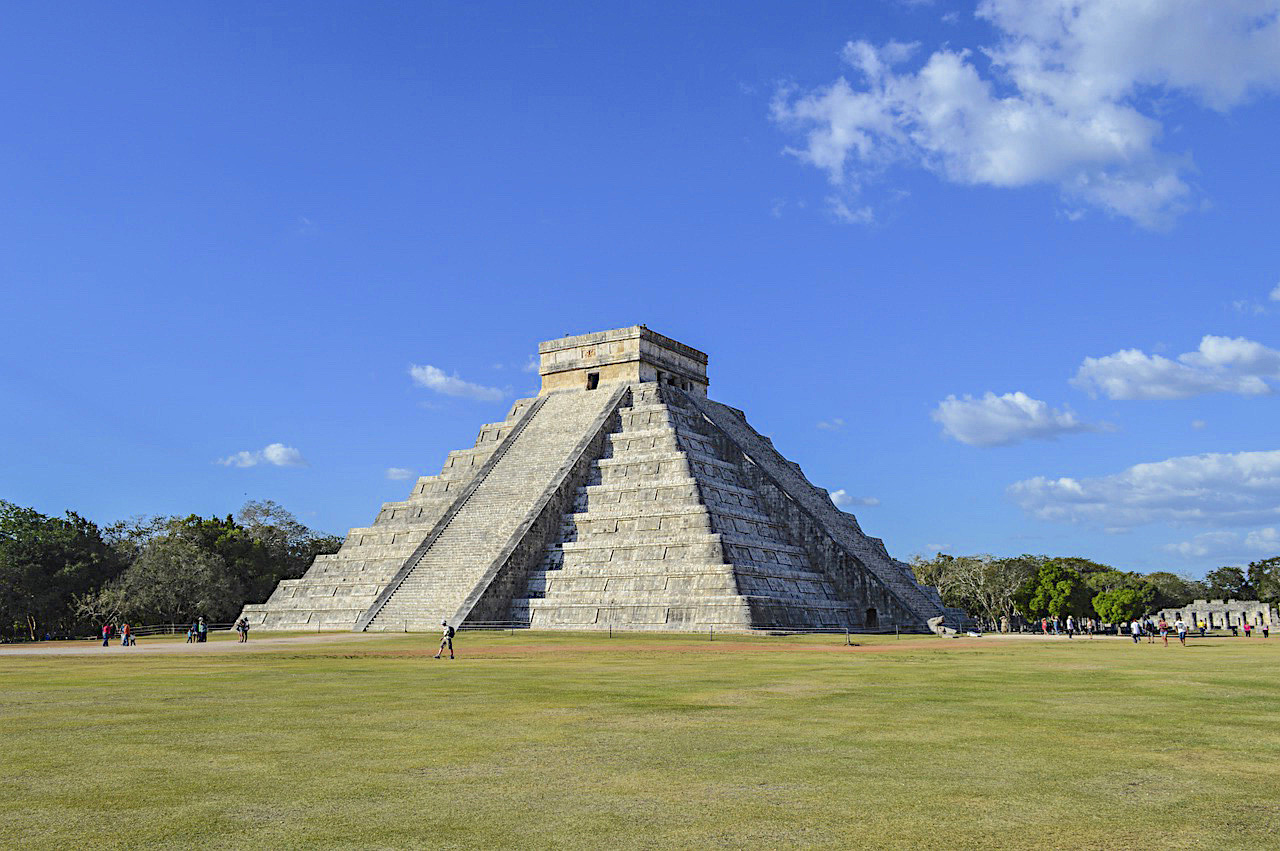
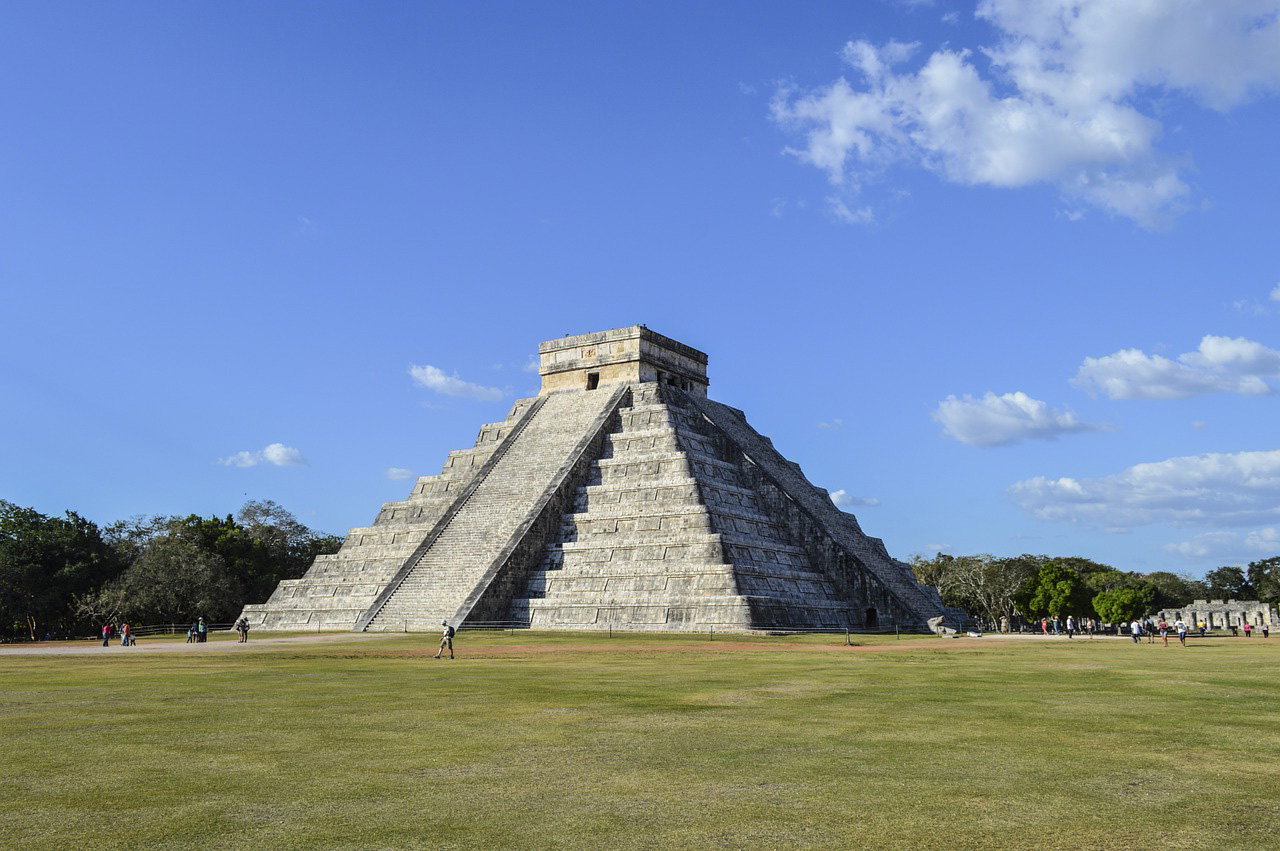
gif added and education fixed again

diff --git a/index.html b/index.html
@@ -54,7 +54,7 @@
 					<section id="colorlib-hero" class="js-fullheight" data-section="home">
 						<div class="flexslider js-fullheight">
 							<ul class="slides">
-						   	<li style="background-image: url(images/flip.jpg);">
+						   	<li style="background-image: url(images/flip.gif);">
 						   		<div class="overlay"></div>
 						   		<div class="container-fluid">
 						   			<div class="row">
@@ -272,25 +272,25 @@
 											<div class="panel panel-default">
 											    <div class="panel-heading" role="tab" id="headingTwo">
 											        <h4 class="panel-title">
-											            <a data-toggle="collapsed" data-parent="#accordion" href="#collapseTwo" aria-expanded="false" aria-controls="collapseOne">Nichols School</a>
+											            <a class="collapsed" data-toggle="collapse" data-parent="#accordion" href="#collapseTwo" aria-expanded="false" aria-controls="collapseTwo">Nichols School</a>
 											        </h4>
 											    </div>
-											    <div id="collapseOne" class="panel-collapse collapse in" role="tabpanel" aria-labelledby="headingTwo">
-											         <div class="panel-body">
-												      			<p>I was a new student in the sixth grade and a veteran in eight. Nichols taught me to love math and science through the powerful actions of passionate teachers. Go Vikings!</p>
-												      	</div>
+											    <div id="collapseTwo" class="panel-collapse collapse" role="tabpanel" aria-labelledby="headingTwo">
+											        <div class="panel-body">
+											            <p>I was a new student in the sixth grade and a veteran in eight. Nichols taught me to love math and science through the powerful actions of passionate teachers. Go Vikings!</p>
+											        </div>
 											    </div>
 											</div>
 											<div class="panel panel-default">
 											    <div class="panel-heading" role="tab" id="headingThree">
 											        <h4 class="panel-title">
-											            <a data-toggle="collapsed" data-parent="#accordion" href="#collapseThree" aria-expanded="false" aria-controls="collapseOne">Shanghai American School</a>
+											            <a class="collapsed" data-toggle="collapse" data-parent="#accordion" href="#collapseThree" aria-expanded="false" aria-controls="collapseThree">Shanghai American School</a>
 											        </h4>
 											    </div>
-											    <div id="collapseOne" class="panel-collapse collapse in" role="tabpanel" aria-labelledby="headingThree">
-											         <div class="panel-body">
-												      			<p>I am thankful for my elemantary school years at S.A.S. because they showed me that I didn't have to hate school like everybody else.</p>
-												      	</div>
+											    <div id="collapseThree" class="panel-collapse collapse" role="tabpanel" aria-labelledby="headingThree">
+											        <div class="panel-body">
+											            <p>I am thankful for my elemantary school years at S.A.S. because they showed me that I didn't have to hate school like everybody else.</p>
+											        </div>
 											    </div>
 											</div>
 											<div class="panel panel-default">
